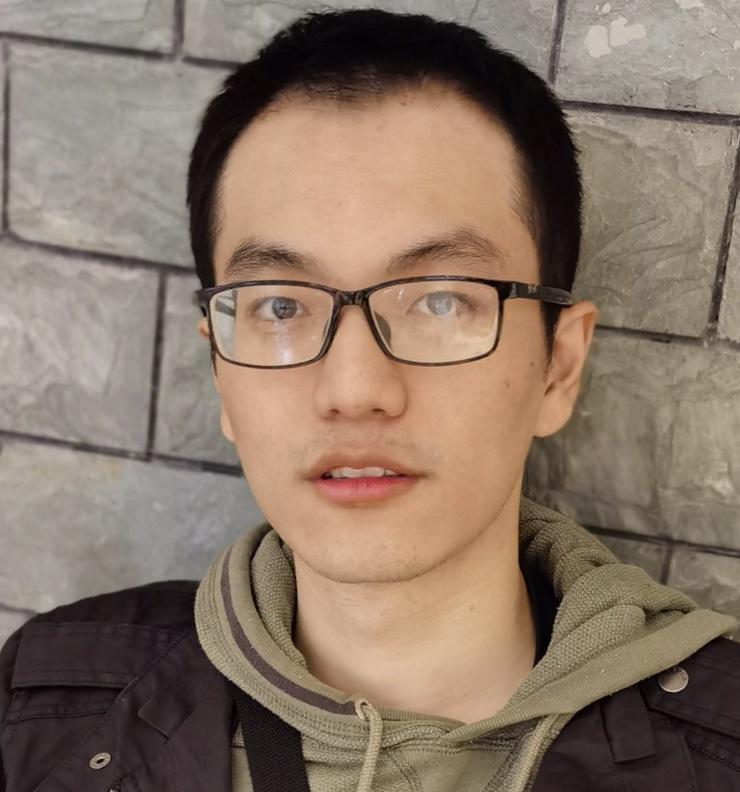
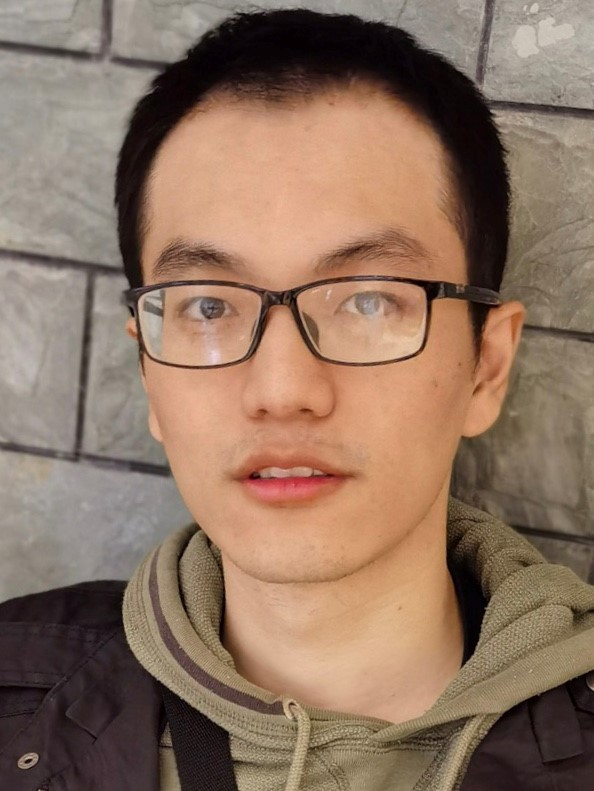
修改校友照片横纵比

diff --git a/content/home/formergraduate.md b/content/home/formergraduate.md
@@ -21,7 +21,7 @@ weight = 10
 	
 [[collaborator]]
 	id = "Weilun Chen"
-	image = "weilun.jpg"
+	image = "chenweilun.jpg"
 	position = "CNOCC"
 	link = ""
 	show = true		
@@ -78,7 +78,7 @@ weight = 10
 [[collaborator]]
 	id = "Mingwen Wang"
 	image = "wangmingwen.png"
-	position = "University of Chinese Academy of Sciences"
+	position = "UCAS"
 	link = ""
 	show = true
 
